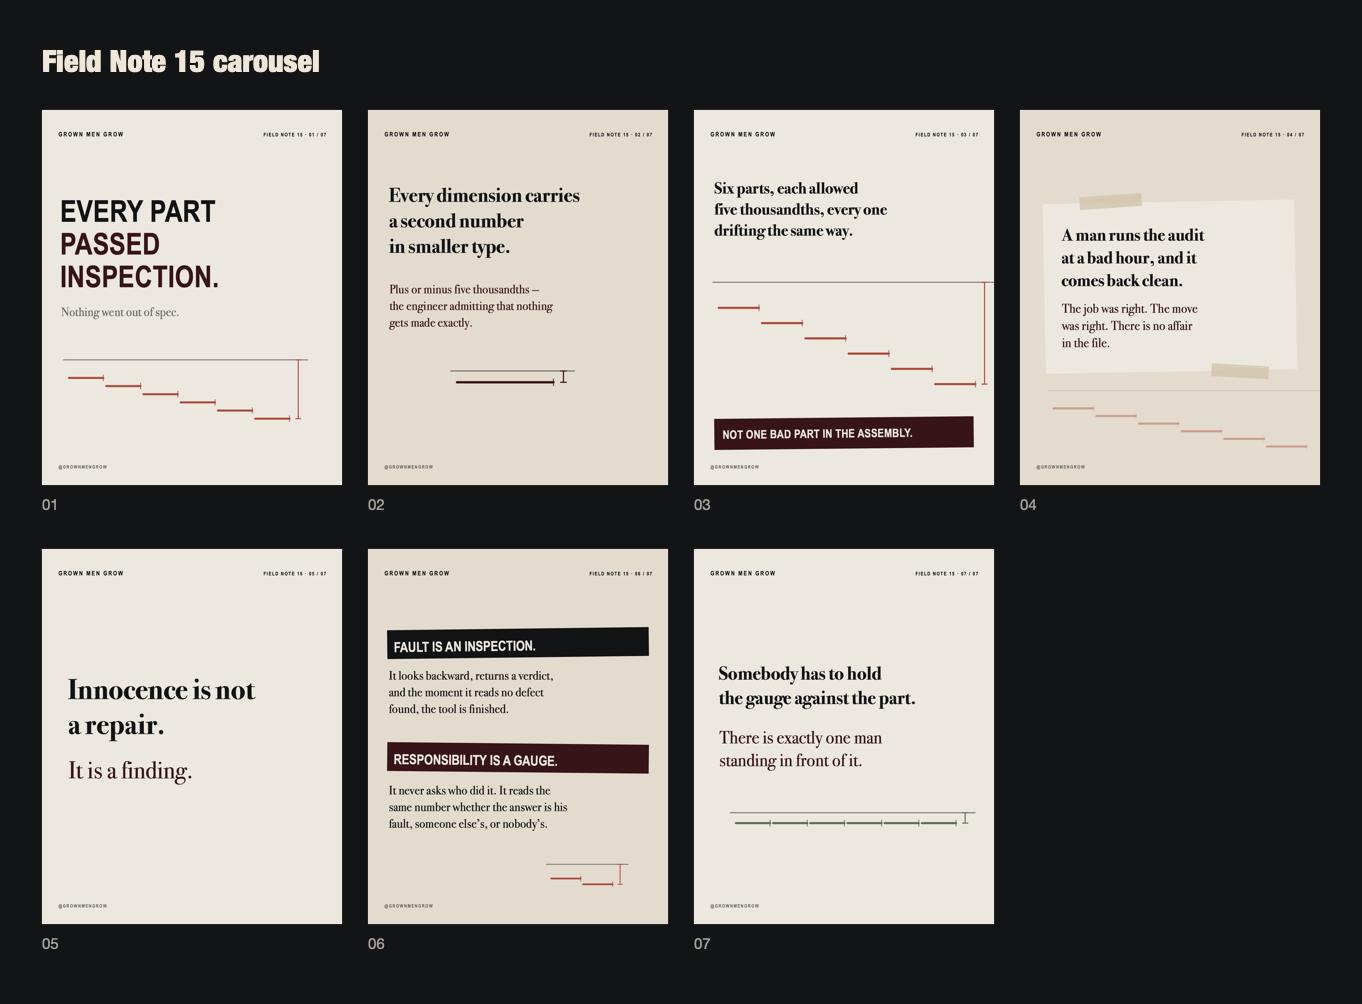
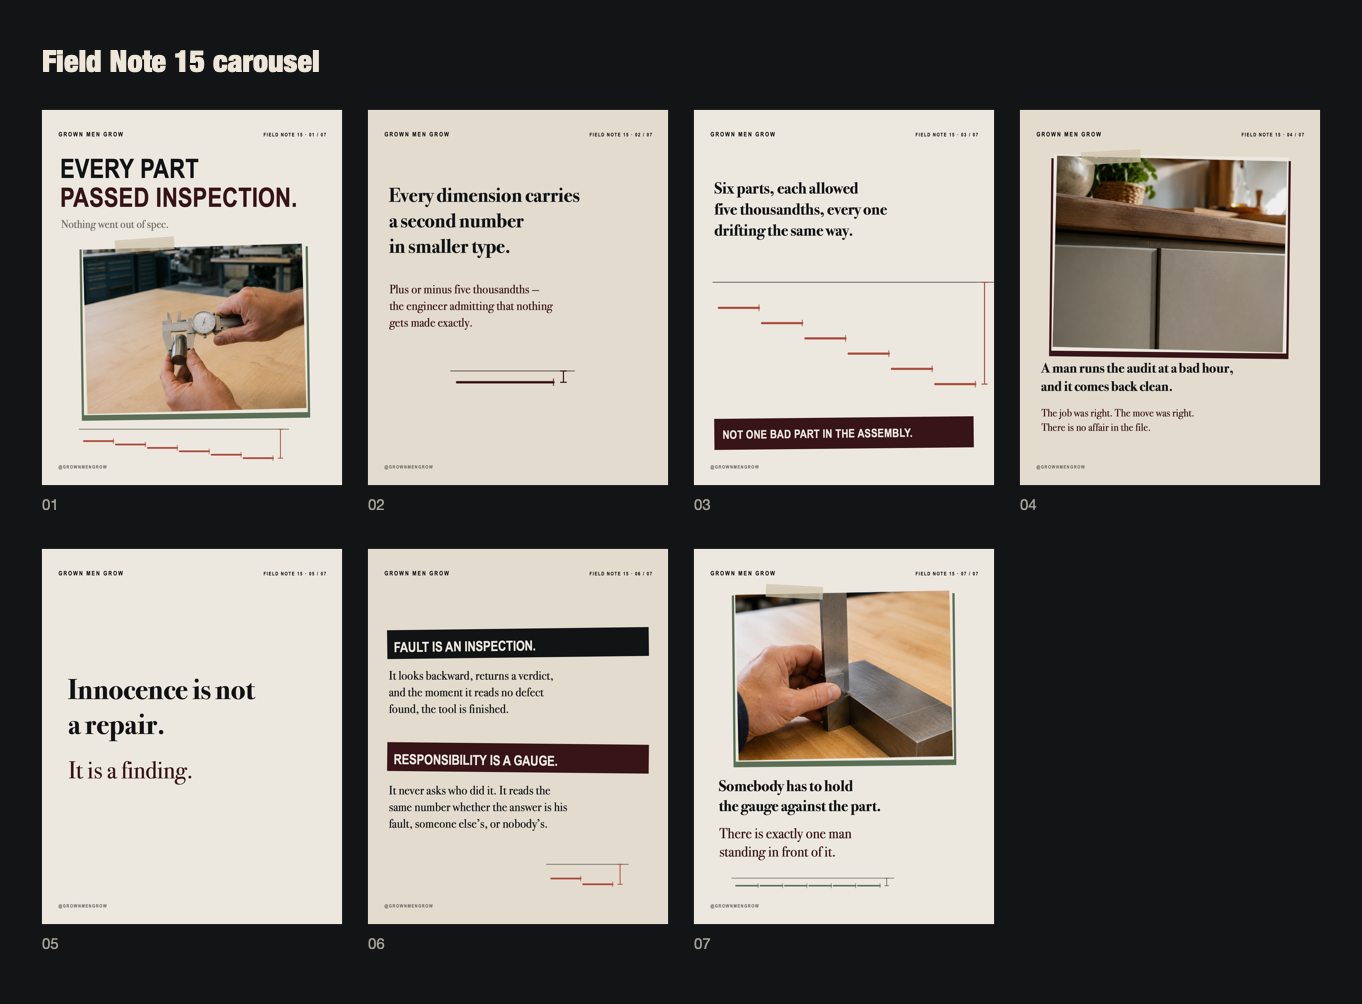
Rebuild Field Note 15 image-led with its own photography (#139)
* chore(security): adopt shared verification actions

* fix(ci): consume corrected shared action release

* feat(content): draft Field Note 15 with its complete platform and visual pack

Adds "Every Part Passed Inspection" as an unapproved draft under drafts/,
with the collateral a note needs to be schedulable: platform pack, render
script, seven carousel slides, feature image, review sheet, and gate entries.

The essay argues tolerance stack-up — six parts each within spec, all
drifting one way, and an assembly thirty thousandths out with no defective
part in it. Stance is assignment; register is the generic present, and no
event is asserted as reportage.

The visual package is type-led rather than image-led. The Chrome extension
was unreachable both times this run, so no new source photography could be
generated, and the 2026-08-16 photograph-exclusivity ruling forbids
re-cropping a picture already spent on another asset. The visual system
names a type-led Marginalia composition as the answer in exactly that case.
Three house-shape prompts are recorded in the note's production notes so the
image-led rebuild is one paste away if the founder prefers it.

The render script asserts it references no source photography at all, which
enforces the type-led choice mechanically rather than by comment.

Nothing here is approved, published, sent, posted, or scheduled.

* docs: record the Field Note 15 draft run in the handoff log
[…]

Changed region(s): [[0.0308, 0.1544, 0.2467, 0.4323], [0.5242, 0.5558, 0.7093, 0.8954], [0.7709, 0.1235, 0.9559, 0.4323]]

diff --git a/drafts/every-part-passed-inspection.md b/drafts/every-part-passed-inspection.md
@@ -6,7 +6,7 @@ byline: none — publication voice (founder ruling 2026-08-10)
 access: public
 email_subject: Every Part Passed Inspection
 preview: The audit comes back clean and the gap is still thirty thousandths.
-feature_image_alt: A title-free paper collage in oxblood, rust, and warm paper tones, showing a run of measured segments stepping steadily away from a ruled datum line with the accumulated gap bracketed at its end, and a second run below sitting level on a single datum.
+feature_image_alt: A title-free paper collage pairing a photograph of two hands closing a dial caliper on a small steel cylinder at a maple workbench with a photograph of two cabinet doors meeting beneath a wooden counter, one standing slightly proud of the other, beside a drawn run of measured segments stepping away from a ruled datum line.
 status: draft — NOT founder-approved
 approved: none — this draft has not been reviewed or approved by the founder
 publication_authorized: false — no publication, newsletter, posting, or scheduling slot is authorized
@@ -15,7 +15,7 @@ register: generic present — asserts that this happens, never that a particular
 personal_claims: none — no event is asserted as reportage and no first person appears, per the 2026-08-08 ruling reaffirmed 2026-08-12
 social_copy_status: draft — not approved
 visual_direction_status: draft — not approved
-artwork_status: type-led composition under the 2026-08-16 photograph-exclusivity ruling; no new photography was generated because the Chrome extension was unreachable this run
+artwork_status: image-led; three source photographs generated for this note, seven carousel slides, feature image, review sheet, and gate entries complete
 origin: written 2026-08-26 by the Wednesday draft task
 ---
 
@@ -139,34 +139,53 @@ The clean verdict is worth something real: he is not a bad man, and he can stop 
 
 # Instagram alt text source
 
-- Slide 1: Title Every Part Passed Inspection in heavy condensed type on warm paper, above a drawn run of stacked measured segments and a ruled datum line.
-- Slide 2: Serif text about the second number in smaller type, beside a single drawn segment with a small plus-or-minus band marked at its right edge.
-- Slide 3: Serif text about six parts drifting the same way, above a run of six drawn segments whose far end falls well clear of the ruled datum line, with the accumulated gap marked.
-- Slide 4: Paper card in serif type about the audit coming back clean, with the drawn segment run continuing faintly behind it.
-- Slide 5: Sparse italic page reading Innocence is not a repair. It is a finding.
-- Slide 6: Two stacked strips contrasting fault as an inspection with responsibility as a gauge, beside a drawn gauge tick reading against the datum line.
-- Slide 7: Closing page reading Somebody has to hold the gauge against the part, with the drawn segments re-referenced to a single datum and the gap closed to one band.
+- Slide 1: Title Every Part Passed Inspection above a photograph of two hands closing a dial caliper around a small steel cylinder at a maple workbench, with a drawn run of measured segments stepping away from a ruled line beneath.
+- Slide 2: Serif text about every dimension carrying a second number in smaller type, above a single drawn segment with a plus-or-minus band marked at its right end.
+- Slide 3: Serif text about six parts each allowed five thousandths and all drifting the same way, above a run of six drawn segments falling well clear of a ruled datum line with the accumulated gap bracketed, and a dark strip reading Not one bad part in the assembly.
+- Slide 4: A photograph of two kitchen cabinet doors meeting beneath a wooden counter, the right door standing slightly proud of the left so a thin shadow line runs down the seam, above serif text about the audit coming back clean.
+- Slide 5: Sparse page reading Innocence is not a repair. It is a finding.
+- Slide 6: Two heavy strips contrasting fault as an inspection with responsibility as a gauge, each with serif text beneath, and a short drawn segment run in the lower corner.
+- Slide 7: A photograph of a hand holding an engineer's square against one machined face of a rectangular steel block on a bright workbench, above the closing lines and a drawn run of segments sitting level on a single datum with the gap closed to one band.
 
 # Visual direction
 
-- Family: **Marginalia** — typographic, spare, abrupt scale shifts, no required photograph.
-- Signature: a hand-drawn **tolerance stack** — a run of short stacked segments, each carrying a small plus-or-minus band, set against a ruled datum line. The run is short and close to the datum in the early slides, drifts visibly clear of it through the middle, and on the closing slide re-references to a single datum so the gap collapses to one band. Used by no other note.
-- Palette: Paper and Paper Light grounds, Ink and Oxblood type, Rust for the stack marks, Green for the closed datum on the final slide.
-- **No photography.** This is deliberate and authorized, not a shortfall: under the 2026-08-16 photograph-exclusivity ruling a note without its own new source photography takes a type-led composition rather than re-cropping any picture that already exists. The Chrome extension was unreachable this run, so no new photography could be generated.
-- If the founder prefers this note image-led, three house prompts are written below and ready to run in one pass; the composition would then be rebuilt against them.
+- Family: **Field Note** — image-led, with type-led and mark-led slides between the photographs so no two consecutive slides share a skeleton. The run is image, type, mark, image, type, type, image.
+- Signature: a hand-drawn **tolerance stack** — a run of short measured segments, each carrying a plus-or-minus band, set against a ruled datum line. Short and close to the datum early, drifting visibly clear of it through the middle, and on the closing slide re-referenced to a single datum so the gap collapses to one band. Used by no other note.
+- Palette: Paper and Paper Light grounds, Ink and Oxblood type, Rust for the drifting stack, Green for the resolved datum on the final slide.
+- Photography, all three generated for this note under the house prompt and unique to it:
+  - `assets/source/editorial/machinist-caliper-part.png` — the caliper closed on a steel cylinder. Slide 1 and the feature image.
+  - `assets/source/editorial/cabinet-seam-proud-door.png` — the cabinet seam with one door proud. Slide 4 and the feature image.
+  - `assets/source/editorial/datum-face-square.png` — the square registered on one machined face. Slide 7.
+- The renderer asserts that no photograph belonging to another article appears in this composition.
 
 # Production notes
 
-- Written 2026-08-26 by the Wednesday draft task. **Not founder-approved. Not authorized for publication, newsletter delivery, posting, or scheduling.**
+- Written 2026-08-26 by the Wednesday draft task; artwork generated the same day once the Chrome extension came back online. **Not founder-approved. Not authorized for publication, newsletter delivery, posting, or scheduling.**
 - Stance is `assignment`. The subject test fails for witness: drift is something the reader has a move on, and the closing hundred words turn to him.
 - Register is the generic present throughout. No event is asserted as having happened, no composite is asserted, and no first person appears. Nothing here may be converted to reportage except from founder-supplied facts.
 - Test 9 is not clean and is reported rather than smoothed: the piece adds to the reader's ledger and shows no man being held. That is the corpus's standing debt, not this draft's alone — the bank stands at two `witness` pieces in fourteen. The next slot is the place to correct it.
 - Contains no reference, explicit or implicit, to another field note, so it registers no cross-reference constraint.
 
-## Imagery — not generated this run
+## Imagery — generated 2026-08-26
 
-The Chrome extension was unreachable at both attempts, so no ChatGPT session could be opened and no source photography was generated. Nothing was skipped quietly and no existing photograph was reused. The three prompts below are written to the house shape in `docs/technical/content-pipeline.md` and are ready to send, in order, in the pinned **Grown Men Grow** project's current *Editorial Photography Request* thread. Source paths are reserved and currently unpopulated.
+Generated in ChatGPT in the founder's pinned **Grown Men Grow** project, continuing the most recent *Editorial Photography Request* thread. Each was reviewed at full resolution against the quality gate before entering the repository; **two were rejected and regenerated rather than shipped**, both for object continuity, which is the failure mode this subject invites because precision tools have geometry a reader of this publication knows by hand.
 
-1. `assets/source/editorial/machinist-caliper-part.png` — *Now a first, separate image in the same editorial photography style, portrait orientation 2:3, single image. A machinist's dial caliper closed on a small turned steel part on a clean bench top, a paper drawing with dimension callouts beside it; the image suggests exactness practiced calmly rather than anxiously. A well-kept, well-lit machine shop in daily use, swept floor, ordered tooling. Hands and forearms only. Contemporary editorial photography with the polish of a major men's magazine, natural texture, restrained fine film grain, candid rather than posed. Dynamic off-center composition with clean negative space at the upper left. Even daylight from a high window, warm, optimistic, grounded. Adult subject, pristine natural anatomy, maintained welcoming setting, no logos, no readable text, no watermark. Avoid: grime, oil-blackened hands, macho workshop cliches, sparks, dramatic rim light, cluttered scrap, rust, dim industrial gloom.*
-2. `assets/source/editorial/assembly-panel-gap.png` — *Now a second, separate image in the same editorial photography style, portrait orientation 2:3, single image. A cabinet door standing very slightly proud of its neighbor, the shadow line between them visible along one edge, in a finished and well-kept room; the image suggests a small accumulated discrepancy noticed by someone who cares about the work. A maintained contemporary interior in use, warm wood and clean painted surfaces. No people. Contemporary editorial photography with the polish of a major men's magazine, natural texture, restrained fine film grain, candid rather than posed. Asymmetric composition with clean negative space to the right. Soft directional daylight, warm, optimistic, grounded. Adult subject, pristine natural anatomy, maintained welcoming setting, no logos, no readable text, no watermark. Avoid: dilapidation, peeling paint, water damage, a room that reads as neglected or poor, exaggerated damage, moody underexposure.*
-3. `assets/source/editorial/datum-face-square.png` — *Now a third, separate image in the same editorial photography style, portrait orientation 2:3, single image. A machinist's square registered against one flat reference face of a workpiece, a scribed line running from that face; the image suggests everything being measured from one chosen surface. A bright, orderly bench in a shop that is plainly used every day. Hands and forearms only. Contemporary editorial photography with the polish of a major men's magazine, natural texture, restrained fine film grain, candid rather than posed. Dynamic off-center composition with clean negative space along the top edge. Cool north daylight warmed by wood surfaces, warm, optimistic, grounded. Adult subject, pristine natural anatomy, maintained welcoming setting, no logos, no readable text, no watermark. Avoid: blueprint-blue color grading, excessive bokeh, showroom sterility, staged perfect prop arrangement, over-sharpened metal, waxy skin.*
+**1. `assets/source/editorial/machinist-caliper-part.png`** — accepted on the second attempt.
+
+> Now a new, separate image in the same editorial photography style, portrait orientation 2:3, single image. One dial caliper alone, its two jaws clearly closed around a single plain steel cylinder held in one hand, on an otherwise bare maple bench top; the image suggests exactness practiced calmly rather than anxiously. A well-kept, well-lit machine shop softly out of focus behind. Hands and forearms only. Contemporary editorial photography with the polish of a major men's magazine, natural texture, restrained fine film grain, candid rather than posed. Dynamic off-center composition with clean negative space at the upper left. Even daylight from a high window, warm, optimistic, grounded. Adult subject, pristine natural anatomy, maintained welcoming setting, no logos, no readable text, no watermark. Avoid: invented or hybrid tools, extra or doubled jaws, doubled beams or scales, more than one measuring tool in frame, cluttered props, grime, oil-blackened hands, macho workshop cliches, sparks, dramatic rim light, rust, dim industrial gloom.
+
+*First attempt rejected.* It carried a bench of assorted tools; the caliper had a doubled beam and a fork of extra prongs corresponding to no real caliper, and the tool at lower left was a hybrid of a micrometer and a tap wrench. The fix was to strip the scene to one tool and one part — fewer objects, fewer chances for a tell — rather than to re-prompt the same crowded frame.
+
+**2. `assets/source/editorial/cabinet-seam-proud-door.png`** — accepted on the first attempt.
+
+> Now a new, separate image in the same editorial photography style, portrait orientation 2:3, single image. Two cabinet doors meeting, one standing very slightly proud of the other so a thin shadow line runs down the seam between them; the image suggests a small accumulated discrepancy noticed by someone who cares about the work. A maintained contemporary kitchen in daily use, warm wood and clean painted surfaces, a little life on the counter. No people. Contemporary editorial photography with the polish of a major men's magazine, natural texture, restrained fine film grain, candid rather than posed. Asymmetric composition, close on the seam, with clean negative space to the right. Soft directional daylight, warm, optimistic, grounded. Maintained welcoming setting, no logos, no readable text, no watermark. Avoid: dilapidation, peeling paint, water damage, a room that reads as neglected or poor, exaggerated or obvious damage, a gap so wide it looks broken, moody underexposure, showroom sterility.
+
+**3. `assets/source/editorial/datum-face-square.png`** — accepted on the second attempt.
+
+> Make a new image from scratch, same editorial photography style, portrait orientation 2:3, single image. One rigid one-piece engineer's try square: a thin flat steel blade fixed into a thicker handle at a single true right angle, the blade ending flush where it meets the handle and never protruding past it. The handle is held flat against one machined side face of a rectangular steel block on a bright bench, the blade standing up across the block's top face, one fine scribed line running from that same face. A bright, orderly shop bench plainly used every day. Hands and forearms only, and keep the joint between blade and handle fully visible, not covered by fingers. Contemporary editorial photography with the polish of a major men's magazine, natural texture, restrained fine film grain, candid rather than posed. Dynamic off-center composition with clean negative space along the top edge. Cool north daylight warmed by wood surfaces, warm, optimistic, grounded. Adult subject, pristine natural anatomy, maintained welcoming setting, no logos, no readable text, no watermark. Avoid: two separate bars, any visible seam or gap where blade meets handle, blade passing through or below the handle, invented or hybrid tools, more than one tool in frame, blueprint-blue grading, excessive bokeh, showroom sterility, over-sharpened metal, waxy skin.
+
+*First attempt rejected.* The square read as two separate loose bars overlapping rather than one rigid tool: a visible seam where blade met stock, and the blade protruding well below the stock. The accepted image shows the blade stepping cleanly out of a thicker handle with the joint visible and no protrusion.
+
+**One deliberate departure from the drafted prompts.** The originally drafted caliper prompt asked for "a paper drawing with dimension callouts" alongside the standing "no readable text" constraint. Those contradict, and the reliable outcome is garbled synthetic lettering — the single tell that rejects a whole image. The drawing was dropped rather than the constraint.
+
+**Composition note.** Slide 4's seam photograph is cropped with a top bias rather than centred; a centre slice of a tall source into a wide box kept only the flat door faces and threw away the counter and the proud step, which is the entire subject.

diff --git a/docs/technical/handoff-log.md b/docs/technical/handoff-log.md
@@ -2236,3 +2236,27 @@ produced `Male Friendship Before Crisis | Grown Men Grow Approved 2026-08-24 alo
 **External state changed:** none. No publish, no send, no post, no schedule, no Ghost write, no Buffer change, no Substack action.
 
 **Open, in order:** (1) founder review of Field Note 15 — copy, pack, and the type-led art direction, which is the decision this run most needs answered; (2) if image-led is preferred, run the three recorded prompts once the Chrome extension is reachable; (3) Field Note 2's live `custom_excerpt` is the dek where the builder sends the preview, a founder call; (4) the audience problem from the 2026-08-23 readout. Test 9 is not clean on this draft and the corpus stands at two `witness` pieces in fourteen — the next slot is the place to correct it.
+
+## 2026-08-26 (second entry) — Claude Code: Field Note 15 rebuilt image-led once Chrome came back
+
+**Client:** Claude Code (continuation of the `gmg-wednesday-draft` run, founder present). **Branch:** `claude/field-note-15-draft-2026-08-26`.
+
+**The extension came back and the imagery was generated.** The earlier entry today recorded a type-led composition because `mcp__claude-in-chrome__tabs_context_mcp` returned not-connected on both attempts. The founder confirmed Chrome was online; the extension responded, and all three source photographs were generated in the pinned **Grown Men Grow** project, continuing the most recent *Editorial Photography Request* thread rather than starting a new one. The type-led treatment was correct while no photography existed and is now superseded; the note is image-led.
+
+**Three photographs, each unique to this note and registered in the checker:** `machinist-caliper-part.png`, `cabinet-seam-proud-door.png`, `datum-face-square.png`, all 1024×1536.
+
+**Two of the three were rejected at full resolution and regenerated rather than shipped.** This is the substantive part of the run. The first caliper image carried a doubled beam, a fork of extra prongs corresponding to no real caliper, and a bench tool that was a micrometer/tap-wrench hybrid. The first square read as two separate loose bars overlapping — a visible seam where blade met stock, and the blade protruding well below it. Both are object-continuity failures under the visual system's gate, and both would have been obvious to a reader who has used the tools, which is this publication's readership. In each case the fix was to strip the frame to a single tool and specify the joint explicitly, not to re-roll the same prompt: crowded frames and unspecified junctions are where this subject generates tells. Every prompt actually sent, both rejections, and the reasoning are recorded in the note's production notes.
+
+**One prompt was corrected before it was ever sent.** The drafted caliper prompt asked for a paper drawing "with dimension callouts" while the house prompt's standing constraint is "no readable text." Those contradict, and the reliable outcome is garbled synthetic lettering — the single tell that rejects a whole image. The drawing was dropped rather than the constraint.
+
+**Composition defects found by reading the rendered output, not assumed.** Slide 4's seam photograph was centre-sliced from a tall source into a wide box, which kept only the flat door faces and threw away the counter and the proud step — the entire subject. The crop is now top-biased. The carousel runs image, type, mark, image, type, type, image, so no two consecutive slides share a skeleton.
+
+**The renderer's guard changed with the treatment.** The type-led assertion (throw if any `/assets/source/` reference appears) is replaced by the standard cross-article guard, so the note now fails the build if it composes a photograph belonging to another article. Exclusivity is scoped per Instagram family, so the carousel may use all three across its own slides and the Ghost feature image may reuse them — the same arrangement every banked note uses.
+
+**Files changed:** `drafts/every-part-passed-inspection.md` (frontmatter, alt text, visual direction, production notes), `scripts/render-field-note-15.mjs`, `scripts/verify-repository.mjs`, three new source photographs under `assets/source/editorial/`, the sixteen re-rendered assets under `assets/drafts/`, and this log.
+
+**Verification, each gate named and run:** `node scripts/verify-ghost-theme.mjs` (17 files); `pnpm --dir theme install --frozen-lockfile`, exit 0; `pnpm --dir theme test`, no fatal issues on Ghost 6.x; `pnpm --dir theme zip` plus fatal GScan on the packaged zip, no fatal issues; `node --test 'scripts/test/**/*.test.mjs'` (127 pass, 0 fail); `node scripts/verify-repository.mjs` (539 tracked files, 52 editorial source images); `bash scripts/verify-svg-xml.sh` (158 SVG files); `git diff --cached --check` clean.
+
+**External state changed:** none in the publication. Three images were generated in the founder's own ChatGPT project and downloaded; no publish, no send, no post, no schedule, no Ghost write, no Buffer change. The share dialog's X, LinkedIn, and Reddit controls were never touched — only Download.
+
+**Open, in order:** (1) founder review of Field Note 15, now a complete image-led unit; (2) Field Note 2's live `custom_excerpt` is the dek where the builder sends the preview, a founder call; (3) the audience problem from the 2026-08-23 readout. The imagery item from this morning's entry is closed. Test 9 remains not clean on this draft and the corpus stands at two `witness` pieces in fourteen.

diff --git a/content/distribution/field-note-15-platforms.md b/content/distribution/field-note-15-platforms.md
@@ -4,7 +4,7 @@ canonical: https://grownmengrow.com/every-part-passed-inspection/ (live only aft
 status: draft — NOT founder-approved
 approved: none — this pack has not been reviewed or approved by the founder
 publication_authorized: false — nothing here is authorized to post, send, or schedule
-image_rule: per-article — this pack may use only Field Note 15 imagery, which is type-led this run
+image_rule: per-article — this pack may use only Field Note 15 imagery
 ---
 
 # Field Note 15 — platform adaptations
